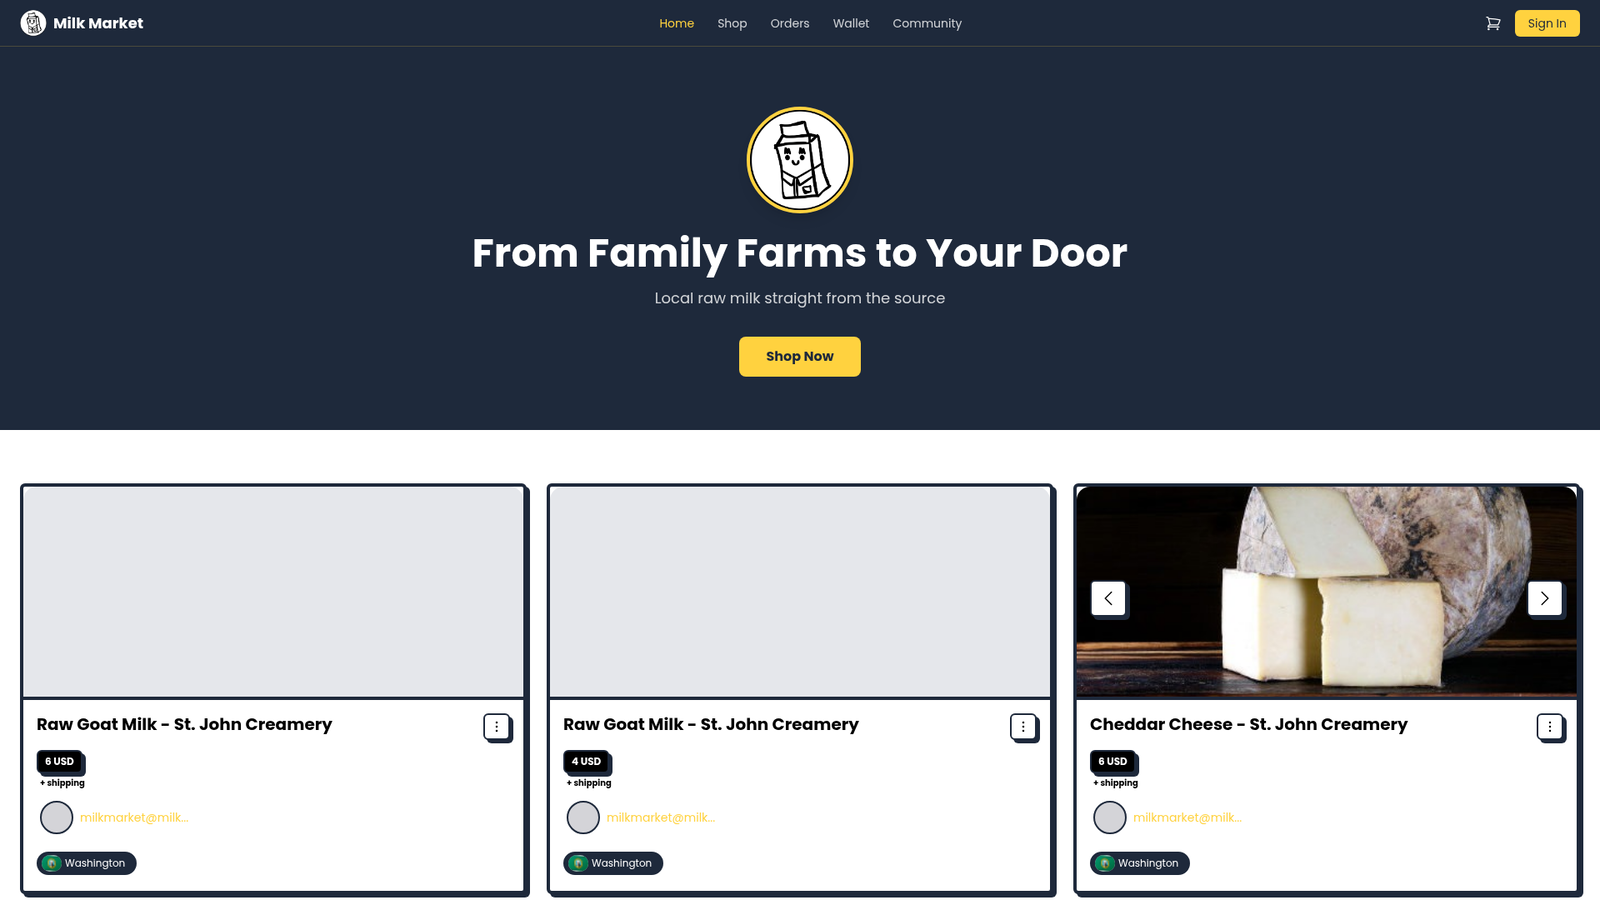
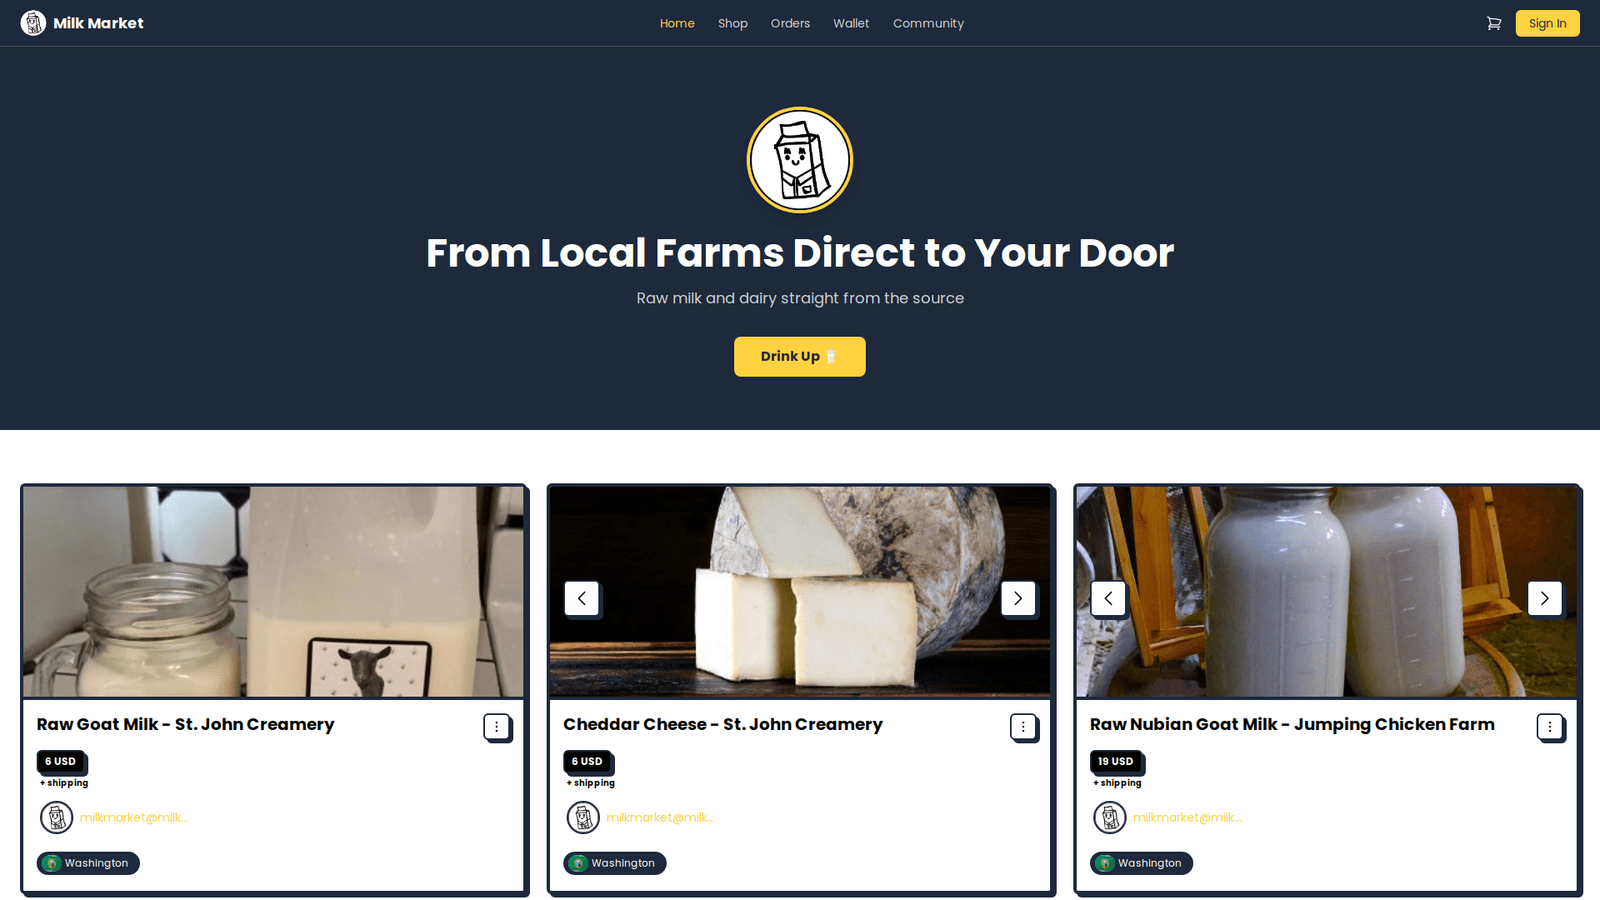
Update stall preview image and its description

diff --git a/pages/index.tsx b/pages/index.tsx
@@ -152,7 +152,7 @@ const SHOWCASE_STALLS: ShowcaseStall[] = [
     url: "milk.market/stall/freemilk",
     href: "/stall/freemilk",
     image: "/stall-freemilk.png",
-    alt: "Free Milk stall on Milk Market showing real products: raw goat milk and cheddar cheese with prices",
+    alt: "Free Milk stall on Milk Market showing real products: raw goat milk, cheddar cheese, and raw Nubian goat milk with prices",
   },
   {
     name: "Naughty Goat Co.",

diff --git a/.agents/memory/marketing-screenshots-capture.md b/.agents/memory/marketing-screenshots-capture.md
@@ -11,4 +11,6 @@ When asked to "refresh app screenshots" or add product imagery to marketing page
 
 **Custom-domain stalls are a trap:** a seller whose real storefront lives on their own custom domain (e.g. `naughtygoat.co`) often shows "No products available yet" on their `milk.market/stall/<slug>` page (products resolve only on the custom domain), and Firecrawl consistently fails on the custom domain itself and on `/stall/<slug>/shop`. Net: you cannot cleanly capture such a stall's products with the external tool — fall back to a `freemilk`-style on-platform stall, or ask the user for the image.
 
+**Working Puppeteer recipe here (verified 2026-07-12):** nix `chromium` is 108, so pin `puppeteer-core@19.4.0` — v25 hangs 30s and times out on newPage (protocol mismatch), and 108 lacks `--headless=new`. Spawn chromium yourself with `--headless --no-sandbox --remote-debugging-port=<port>` and `puppeteer.connect({browserURL})`. Run the script from the workspace root (a /tmp script can't resolve workspace node_modules). To guarantee product images are loaded: scroll through the page, then `waitForFunction` every `img.complete && naturalWidth>0`, then `img.decode()`. Emoji glyphs render as tofu unless you drop `NotoColorEmoji.ttf` into `~/.fonts` + `fc-cache` (the nix `noto-fonts-emoji` package is NOT scanned by fontconfig). Inject CSS to hide the scrollbar or it bakes into the right edge. Capture at 1920×1080 and sharp-resize to the target 1600×900 so full product cards (with prices) fit; recompress with `png({palette:true,quality:90})` (~4× smaller; sharp is only a transitive dep — verify it resolves before relying on it). Uninstall chromium + puppeteer-core and delete the font afterward.
+
 **External screenshot tools vs. a controlled browser:** the built-in `screenshot type=external_url` (Firecrawl) tool can only capture anonymous, already-rendered pages — it has no login, modal, or wait control, so authenticated/interactive screens (sign-in modal, keys/profile/wallet pages, order chats, listing-creation forms) come out blank or as spinners. These ARE capturable with a controlled local browser instead: install chromium via the package tools, drive Puppeteer against production, inject NIP-49 auth into localStorage to reach signed-in pages, open the target modal/route, then post-process the PNG with `sharp` (crop/resize to match sibling image dimensions). Remember to uninstall chromium and restore any capture-time env changes afterward — they are out of scope for the committed diff.